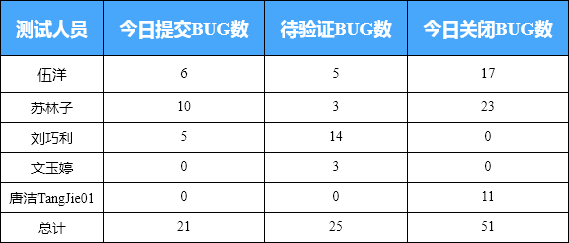
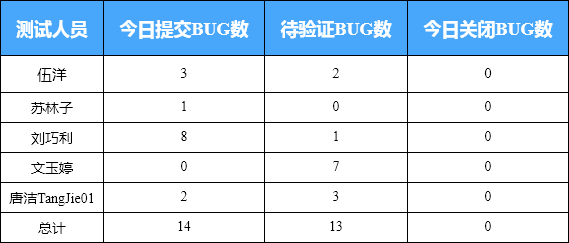
2021/1/11 修复"重新打开"BUG，提炼配置文件

diff --git a/Tapd/html/developerHtml.html b/Tapd/html/developerHtml.html
@@ -5,6 +5,6 @@
     <title>模板</title>
 </head>
 <body>
-<table style="border-collapse:collapse;word-break:keep-all;white-space:nowrap;font-size:14px;"><tr style="color:#fff;background-color:#48a6fb;font-size:18px;"><th style="border-color:#000;border-width:1px;border-style:solid;padding:15px;text-align:center;">开发人员</th><th style="border-color:#000;border-width:1px;border-style:solid;padding:15px;text-align:center;">今日解决BUG数</th><th style="border-color:#000;border-width:1px;border-style:solid;padding:15px;text-align:center;">待解决BUG数</th></tr><tr><td style="border-color:#000;border-width:1px;border-style:solid;padding:8px;text-align:center;font-size:15px;">沈滔</td><td style="border-color:#000;border-width:1px;border-style:solid;padding:8px;text-align:center;font-size:15px;">9</td><td style="border-color:#000;border-width:1px;border-style:solid;padding:8px;text-align:center;font-size:15px;">8</td></tr><tr><td style="border-color:#000;border-width:1px;border-style:solid;padding:5px;text-align:center;">吴吉</td><td style="border-color:#000;border-width:1px;border-style:solid;padding:5px;text-align:center;">1</td><td style="border-color:#000;border-width:1px;border-style:solid;padding:5px;text-align:center;">1</td></tr><tr><td style="border-color:#000;border-width:1px;border-style:solid;padding:5px;text-align:center;">孙运</td><td style="border-color:#000;border-width:1px;border-style:solid;padding:5px;text-align:center;">1</td><td style="border-color:#000;border-width:1px;border-style:solid;padding:5px;text-align:center;">4</td></tr><tr><td style="border-color:#000;border-width:1px;border-style:solid;padding:5px;text-align:center;">李星</td><td style="border-color:#000;border-width:1px;border-style:solid;padding:5px;text-align:center;">1</td><td style="border-color:#000;border-width:1px;border-style:solid;padding:5px;text-align:center;">2</td></tr><tr><td style="border-color:#000;border-width:1px;border-style:solid;padding:5px;text-align:center;">李雄</td><td style="border-color:#000;border-width:1px;border-style:solid;padding:5px;text-align:center;">0</td><td style="border-color:#000;border-width:1px;border-style:solid;padding:5px;text-align:center;">0</td></tr><tr><td style="border-color:#000;border-width:1px;border-style:solid;padding:5px;text-align:center;">张科君</td><td style="border-color:#000;border-width:1px;border-style:solid;padding:5px;text-align:center;">0</td><td style="border-color:#000;border-width:1px;border-style:solid;padding:5px;text-align:center;">4</td></tr><tr><td style="border-color:#000;border-width:1px;border-style:solid;padding:5px;text-align:center;">尹君</td><td style="border-color:#000;border-width:1px;border-style:solid;padding:5px;text-align:center;">1</td><td style="border-color:#000;border-width:1px;border-style:solid;padding:5px;text-align:center;">1</td></tr><tr><td style="border-color:#000;border-width:1px;border-style:solid;padding:5px;text-align:center;">曾俊</td><td style="border-color:#000;border-width:1px;border-style:solid;padding:5px;text-align:center;">0</td><td style="border-color:#000;border-width:1px;border-style:solid;padding:5px;text-align:center;">0</td></tr><tr><td style="border-color:#000;border-width:1px;border-style:solid;padding:5px;text-align:center;">总计</td><td style="border-color:#000;border-width:1px;border-style:solid;padding:5px;text-align:center;">13</td><td style="border-color:#000;border-width:1px;border-style:solid;padding:5px;text-align:center;">20</td></tr></table>
+<table style="border-collapse:collapse;word-break:keep-all;white-space:nowrap;font-size:14px;"><tr style="color:#fff;background-color:#48a6fb;font-size:18px;"><th style="border-color:#000;border-width:1px;border-style:solid;padding:15px;text-align:center;">开发人员</th><th style="border-color:#000;border-width:1px;border-style:solid;padding:15px;text-align:center;">今日解决BUG数</th><th style="border-color:#000;border-width:1px;border-style:solid;padding:15px;text-align:center;">待解决BUG数</th></tr><tr><td style="border-color:#000;border-width:1px;border-style:solid;padding:8px;text-align:center;font-size:15px;">沈滔</td><td style="border-color:#000;border-width:1px;border-style:solid;padding:8px;text-align:center;font-size:15px;">1</td><td style="border-color:#000;border-width:1px;border-style:solid;padding:8px;text-align:center;font-size:15px;">6</td></tr><tr><td style="border-color:#000;border-width:1px;border-style:solid;padding:5px;text-align:center;">吴吉</td><td style="border-color:#000;border-width:1px;border-style:solid;padding:5px;text-align:center;">0</td><td style="border-color:#000;border-width:1px;border-style:solid;padding:5px;text-align:center;">3</td></tr><tr><td style="border-color:#000;border-width:1px;border-style:solid;padding:5px;text-align:center;">孙运</td><td style="border-color:#000;border-width:1px;border-style:solid;padding:5px;text-align:center;">3</td><td style="border-color:#000;border-width:1px;border-style:solid;padding:5px;text-align:center;">0</td></tr><tr><td style="border-color:#000;border-width:1px;border-style:solid;padding:5px;text-align:center;">李星</td><td style="border-color:#000;border-width:1px;border-style:solid;padding:5px;text-align:center;">0</td><td style="border-color:#000;border-width:1px;border-style:solid;padding:5px;text-align:center;">3</td></tr><tr><td style="border-color:#000;border-width:1px;border-style:solid;padding:5px;text-align:center;">李雄</td><td style="border-color:#000;border-width:1px;border-style:solid;padding:5px;text-align:center;">0</td><td style="border-color:#000;border-width:1px;border-style:solid;padding:5px;text-align:center;">0</td></tr><tr><td style="border-color:#000;border-width:1px;border-style:solid;padding:5px;text-align:center;">张科君</td><td style="border-color:#000;border-width:1px;border-style:solid;padding:5px;text-align:center;">0</td><td style="border-color:#000;border-width:1px;border-style:solid;padding:5px;text-align:center;">7</td></tr><tr><td style="border-color:#000;border-width:1px;border-style:solid;padding:5px;text-align:center;">尹君</td><td style="border-color:#000;border-width:1px;border-style:solid;padding:5px;text-align:center;">0</td><td style="border-color:#000;border-width:1px;border-style:solid;padding:5px;text-align:center;">0</td></tr><tr><td style="border-color:#000;border-width:1px;border-style:solid;padding:5px;text-align:center;">曾俊</td><td style="border-color:#000;border-width:1px;border-style:solid;padding:5px;text-align:center;">0</td><td style="border-color:#000;border-width:1px;border-style:solid;padding:5px;text-align:center;">0</td></tr><tr><td style="border-color:#000;border-width:1px;border-style:solid;padding:5px;text-align:center;">总计</td><td style="border-color:#000;border-width:1px;border-style:solid;padding:5px;text-align:center;">4</td><td style="border-color:#000;border-width:1px;border-style:solid;padding:5px;text-align:center;">19</td></tr></table>
 </body>
 </html>

diff --git a/Tapd/html/testerHtml.html b/Tapd/html/testerHtml.html
@@ -5,6 +5,6 @@
     <title>模板</title>
 </head>
 <body>
-<table style="border-collapse:collapse;word-break:keep-all;white-space:nowrap;font-size:14px;"><tr style="color:#fff;background-color:#48a6fb;font-size:18px;"><th style="border-color:#000;border-width:1px;border-style:solid;padding:15px;text-align:center;">测试人员</th><th style="border-color:#000;border-width:1px;border-style:solid;padding:15px;text-align:center;">今日提交BUG数</th><th style="border-color:#000;border-width:1px;border-style:solid;padding:15px;text-align:center;">待验证BUG数</th><th style="border-color:#000;border-width:1px;border-style:solid;padding:15px;text-align:center;">今日关闭BUG数</th></tr><tr><td style="border-color:#000;border-width:1px;border-style:solid;padding:8px;text-align:center;font-size:15px;">伍洋</td><td style="border-color:#000;border-width:1px;border-style:solid;padding:8px;text-align:center;font-size:15px;">6</td><td style="border-color:#000;border-width:1px;border-style:solid;padding:8px;text-align:center;font-size:15px;">5</td><td style="border-color:#000;border-width:1px;border-style:solid;padding:8px;text-align:center;font-size:15px;">17</td></tr><tr><td style="border-color:#000;border-width:1px;border-style:solid;padding:5px;text-align:center;">苏林子</td><td style="border-color:#000;border-width:1px;border-style:solid;padding:5px;text-align:center;">10</td><td style="border-color:#000;border-width:1px;border-style:solid;padding:5px;text-align:center;">3</td><td style="border-color:#000;border-width:1px;border-style:solid;padding:5px;text-align:center;">23</td></tr><tr><td style="border-color:#000;border-width:1px;border-style:solid;padding:5px;text-align:center;">刘巧利</td><td style="border-color:#000;border-width:1px;border-style:solid;padding:5px;text-align:center;">5</td><td style="border-color:#000;border-width:1px;border-style:solid;padding:5px;text-align:center;">14</td><td style="border-color:#000;border-width:1px;border-style:solid;padding:5px;text-align:center;">0</td></tr><tr><td style="border-color:#000;border-width:1px;border-style:solid;padding:5px;text-align:center;">文玉婷</td><td style="border-color:#000;border-width:1px;border-style:solid;padding:5px;text-align:center;">0</td><td style="border-color:#000;border-width:1px;border-style:solid;padding:5px;text-align:center;">3</td><td style="border-color:#000;border-width:1px;border-style:solid;padding:5px;text-align:center;">0</td></tr><tr><td style="border-color:#000;border-width:1px;border-style:solid;padding:5px;text-align:center;">唐洁TangJie01</td><td style="border-color:#000;border-width:1px;border-style:solid;padding:5px;text-align:center;">0</td><td style="border-color:#000;border-width:1px;border-style:solid;padding:5px;text-align:center;">0</td><td style="border-color:#000;border-width:1px;border-style:solid;padding:5px;text-align:center;">11</td></tr><tr><td style="border-color:#000;border-width:1px;border-style:solid;padding:5px;text-align:center;">总计</td><td style="border-color:#000;border-width:1px;border-style:solid;padding:5px;text-align:center;">21</td><td style="border-color:#000;border-width:1px;border-style:solid;padding:5px;text-align:center;">25</td><td style="border-color:#000;border-width:1px;border-style:solid;padding:5px;text-align:center;">51</td></tr></table>
+<table style="border-collapse:collapse;word-break:keep-all;white-space:nowrap;font-size:14px;"><tr style="color:#fff;background-color:#48a6fb;font-size:18px;"><th style="border-color:#000;border-width:1px;border-style:solid;padding:15px;text-align:center;">测试人员</th><th style="border-color:#000;border-width:1px;border-style:solid;padding:15px;text-align:center;">今日提交BUG数</th><th style="border-color:#000;border-width:1px;border-style:solid;padding:15px;text-align:center;">待验证BUG数</th><th style="border-color:#000;border-width:1px;border-style:solid;padding:15px;text-align:center;">今日关闭BUG数</th></tr><tr><td style="border-color:#000;border-width:1px;border-style:solid;padding:8px;text-align:center;font-size:15px;">伍洋</td><td style="border-color:#000;border-width:1px;border-style:solid;padding:8px;text-align:center;font-size:15px;">3</td><td style="border-color:#000;border-width:1px;border-style:solid;padding:8px;text-align:center;font-size:15px;">2</td><td style="border-color:#000;border-width:1px;border-style:solid;padding:8px;text-align:center;font-size:15px;">0</td></tr><tr><td style="border-color:#000;border-width:1px;border-style:solid;padding:5px;text-align:center;">苏林子</td><td style="border-color:#000;border-width:1px;border-style:solid;padding:5px;text-align:center;">1</td><td style="border-color:#000;border-width:1px;border-style:solid;padding:5px;text-align:center;">0</td><td style="border-color:#000;border-width:1px;border-style:solid;padding:5px;text-align:center;">0</td></tr><tr><td style="border-color:#000;border-width:1px;border-style:solid;padding:5px;text-align:center;">刘巧利</td><td style="border-color:#000;border-width:1px;border-style:solid;padding:5px;text-align:center;">8</td><td style="border-color:#000;border-width:1px;border-style:solid;padding:5px;text-align:center;">1</td><td style="border-color:#000;border-width:1px;border-style:solid;padding:5px;text-align:center;">0</td></tr><tr><td style="border-color:#000;border-width:1px;border-style:solid;padding:5px;text-align:center;">文玉婷</td><td style="border-color:#000;border-width:1px;border-style:solid;padding:5px;text-align:center;">0</td><td style="border-color:#000;border-width:1px;border-style:solid;padding:5px;text-align:center;">7</td><td style="border-color:#000;border-width:1px;border-style:solid;padding:5px;text-align:center;">0</td></tr><tr><td style="border-color:#000;border-width:1px;border-style:solid;padding:5px;text-align:center;">唐洁TangJie01</td><td style="border-color:#000;border-width:1px;border-style:solid;padding:5px;text-align:center;">2</td><td style="border-color:#000;border-width:1px;border-style:solid;padding:5px;text-align:center;">3</td><td style="border-color:#000;border-width:1px;border-style:solid;padding:5px;text-align:center;">0</td></tr><tr><td style="border-color:#000;border-width:1px;border-style:solid;padding:5px;text-align:center;">总计</td><td style="border-color:#000;border-width:1px;border-style:solid;padding:5px;text-align:center;">14</td><td style="border-color:#000;border-width:1px;border-style:solid;padding:5px;text-align:center;">13</td><td style="border-color:#000;border-width:1px;border-style:solid;padding:5px;text-align:center;">0</td></tr></table>
 </body>
 </html>

diff --git a/Tapd/main.py b/Tapd/main.py
@@ -104,7 +104,7 @@ def statisticsDta(my_datas,today,version) -> int:
     print("每日新增BUG数：{}".format(getdateNum(my_datas, {"创建时间": today, '发现版本': version})))
     print("每日解决BUG数：{}".format(getdateNum(my_datas, {"解决时间": today, '发现版本': version})))
     print("每日关闭BUG数：{}".format(getdateNum(my_datas, {"关闭时间": today, '发现版本': version})))
-    resolvedBUG = getdateNum(my_datas, {"状态": '新', '发现版本': version}) + getdateNum(my_datas, {"状态": '接受/处理', '发现版本': version})
+    resolvedBUG = getdateNum(my_datas, {"状态": '新', '发现版本': version}) + getdateNum(my_datas, {"状态": '接受/处理', '发现版本': version}) + getdateNum(my_datas, {"状态": '重新打开', '发现版本': version})
     print("每日待修复BUG数：{}".format(resolvedBUG))
     activation_bugs = resolvedBUG
 
@@ -125,7 +125,7 @@ def testerData(my_datas, person, today, version):
 def developerData(my_datas, person, today, version):
     developerListData = []
     solved_bugs = getdateNum(my_datas, {"解决时间": today, '修复人': person, "状态": "已解决", '发现版本': version})
-    surplus_bugs = getdateNum(my_datas, {"状态": "新", '处理人': person, '发现版本': version}) + getdateNum(my_datas, {"状态": "接受/处理", '处理人': person, '发现版本': version})
+    surplus_bugs = getdateNum(my_datas, {"状态": "新", '处理人': person, '发现版本': version}) + getdateNum(my_datas, {"状态": "接受/处理", '处理人': person, '发现版本': version}) + getdateNum(my_datas, {"状态": "重新打开", '处理人': person, '发现版本': version})
 
     developerListData.append(person)
     developerListData.append(str(solved_bugs))
@@ -134,10 +134,19 @@ def developerData(my_datas, person, today, version):
 
 
 if __name__ == '__main__':
-    today = strftime("%Y-%m-%d", localtime(time()))
+    # 脚本初始化(注意：首次执行需要清空record.json文件)
     version = '2.1.7'
+    username = '17600445140'
+    password = 'Hc17600445140'
+    # roboturl = 'https://qyapi.weixin.qq.com/cgi-bin/webhook/send?key=a7d6ff37-bcf2-49d0-9f2c-dee68ec82e05'
+    roboturl = 'https://qyapi.weixin.qq.com/cgi-bin/webhook/send?key=9607d7b2-6c72-4e73-ae7a-e27c0990b467'
+    developer = ["沈滔", "吴吉", "孙运", "李星", "李雄", "张科君", "尹君", "曾俊"]
+    tester = ["伍洋", "苏林子", "刘巧利", "文玉婷", "唐洁TangJie01"]
 
-    my_datas = crawlingData(driver,version)
+
+    today = strftime("%Y-%m-%d", localtime(time()))
+
+    my_datas = crawlingData(driver,version,username,password)
 
     # 统计总数居 -> 返回当日激活BUG数
     activation_bugs = statisticsDta(my_datas,today,version)
@@ -158,10 +167,6 @@ if __name__ == '__main__':
     dict = data["data"]
 
     draw(list, dict, my_datas, version)
-
-    # 脚本初始化
-    developer = ["沈滔", "吴吉", "孙运", "李星", "李雄", "张科君", "尹君", "曾俊"]
-    tester = ["伍洋", "苏林子", "刘巧利", "文玉婷", "唐洁TangJie01"]
 
     testerTotalSubmit_bugs = 0
     testerTotalverified_bugs = 0
@@ -210,12 +215,12 @@ if __name__ == '__main__':
     todayAddBug = './png/每日新增bug数.png'
     todaySolvedBug = './png/每日解决bug数.png'
 
-    sendPNGMessage(testerPNG_path)
-    sendPNGMessage(developPNG_path)
-    sendPNGMessage(todayCloseBug)
-    sendPNGMessage(todayFixedBug)
-    sendPNGMessage(todayAddBug)
-    sendPNGMessage(todaySolvedBug)
+    sendPNGMessage(testerPNG_path,roboturl)
+    sendPNGMessage(developPNG_path,roboturl)
+    sendPNGMessage(todayCloseBug,roboturl)
+    sendPNGMessage(todayFixedBug,roboturl)
+    sendPNGMessage(todayAddBug,roboturl)
+    sendPNGMessage(todaySolvedBug,roboturl)
 
     driver.quit()
 

diff --git a/Tapd/crawlingData.py b/Tapd/crawlingData.py
@@ -1,11 +1,11 @@
 # -*- coding:utf-8 -*-
 
-def crawlingData(driver,version):
+def crawlingData(driver,version,username,password):
     driver.get("https://www.tapd.cn/cloud_logins/login")
     driver.maximize_window()
 
-    driver.find_element_by_id("username").send_keys("17600445140")
-    driver.find_element_by_id("password_input").send_keys("Hc17600445140")
+    driver.find_element_by_id("username").send_keys(username)
+    driver.find_element_by_id("password_input").send_keys(password)
     driver.find_element_by_xpath('//*[@id="tcloud_login_button"]').click()
 
     url = "https://www.tapd.cn/67410840/bugtrace/bugreports/my_view?" + "data[Filter][version_report][]=" + version

diff --git a/Tapd/sendMessage.py b/Tapd/sendMessage.py
@@ -4,13 +4,13 @@ import hashlib
 import requests
 from fake_useragent import UserAgent
 
-def sendPNGMessage(png_path):
+def sendPNGMessage(png_path, roboturl):
     headers = {
         "User-Agent": UserAgent().chrome,
         "Content-Type": "application/json"
     }
 
-    url = "https://qyapi.weixin.qq.com/cgi-bin/webhook/send?key=a7d6ff37-bcf2-49d0-9f2c-dee68ec82e05"
+    url = roboturl
 
     # params = {
     #     "msgtype": "text",
